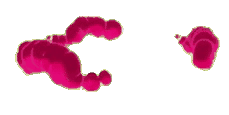
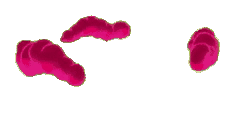
update: dynamax added with animation support

Changed region(s): [[0.0611, 0.1304, 0.5808, 0.8087], [0.7642, 0.2087, 0.9782, 0.6522]]

diff --git a/style.css b/style.css
@@ -239,6 +239,8 @@ article[data-variant="dynamax"]>h2::before {
     scale: 0.3;
     inset-block-start: 0;
     z-index: 2;
+    mix-blend-mode: color;
+    filter: contrast(2) hue-rotate(-10deg);
 }
 
 @media (prefers-reduced-motion: no-preference) {
@@ -253,6 +255,8 @@ article[data-variant="dynamax"]>h2::before {
         scale: 0.3;
         inset-block-start: 0;
         z-index: 2;
+        mix-blend-mode: color;
+        filter: contrast(2) hue-rotate(-10deg);
     }
 }
 
